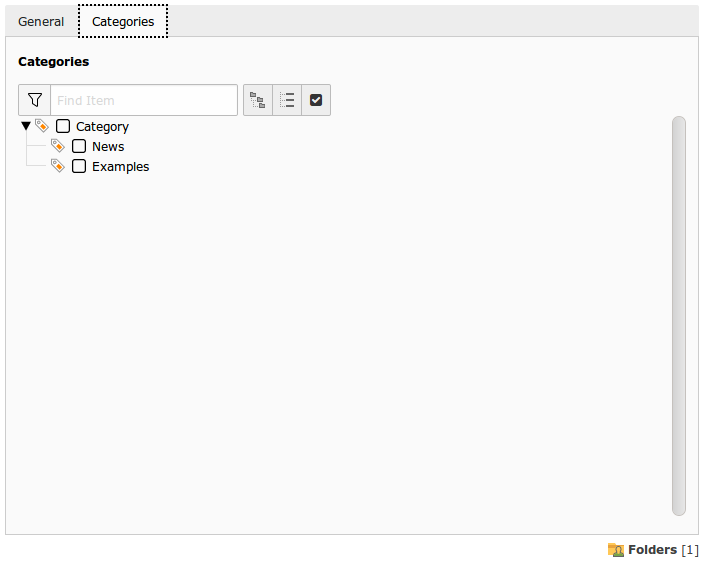
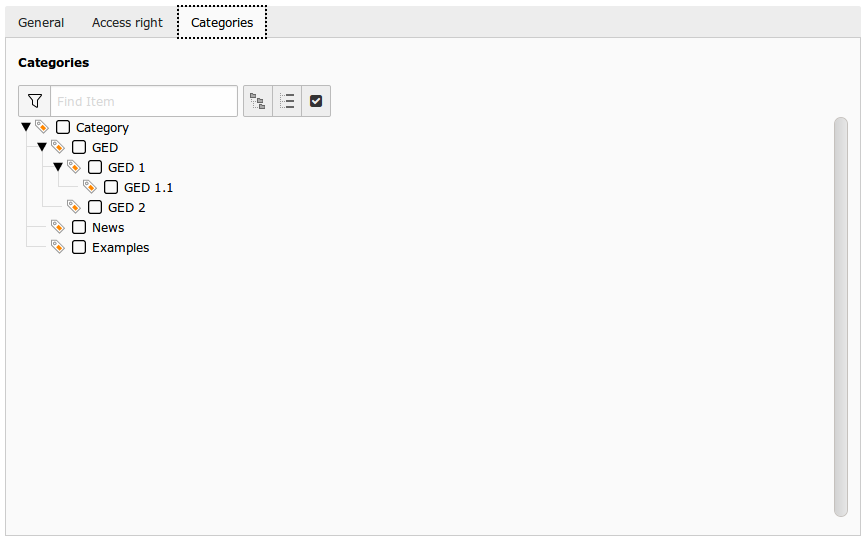
[TASK] Update documentation

Changed region(s): [[0.0, 0.0, 0.4674, 0.4732], [0.8414, 0.207, 0.9972, 1.0], [0.966, 0.0591, 0.9972, 0.0887]]

diff --git a/Documentation/Administration/PluginConfiguration.rst b/Documentation/Administration/PluginConfiguration.rst
@@ -1,0 +1,88 @@
+Plugin configuration
+====================
+
+General configuration
+----------------------
+
+.. figure:: ../Screenshots/PluginGeneral.png
+	:alt: General Configuration
+    
+This is the basic configuration you need to make your extension to work.
+
++----------------------------------------------------+-------------------------------------------------------------------------------+
+| Option                                             | Detail                                                                        |
++====================================================+===============================================================================+
+| Storage                                            | Storage mount where your files are.                                           |
++----------------------------------------------------+-------------------------------------------------------------------------------+
+| Root folder                                        | Root folder for the plugin.                                                   |
++----------------------------------------------------+-------------------------------------------------------------------------------+ 
+| Limiting the number of levels                      | Limite the recursion from the root fodler.                                    |
++----------------------------------------------------+-------------------------------------------------------------------------------+
+| Display Archive                                    | If check, archive files are displayed.                                        |
++----------------------------------------------------+-------------------------------------------------------------------------------+
+| Namespace                                          | Change only if you have 2 plugins on the same page. This avoids the conflicts |
++----------------------------------------------------+-------------------------------------------------------------------------------+
+
+
+Personalization
+----------------------
+
+.. figure:: ../Screenshots/PluginPerso.png
+	:alt: Display Configuration
+    
+These options are for display purpose only, you may let the default settings or choose your own :
+
++-------------------------------------------+------------------------------------------------------------------------------------------------------------------------------------------+
+| Option                                    | Detail                                                                                                                                   |
++===========================================+==========================================================================================================================================+
+| Display thumbnail                         | If checked, thumbnails are displayed instead of filetype's icon                                                                          |
++-------------------------------------------+------------------------------------------------------------------------------------------------------------------------------------------+
+| Display folders in filelist               | If checked, folders are displayed if the list of files                                                                                   |
++-------------------------------------------+------------------------------------------------------------------------------------------------------------------------------------------+
+| Display search field                      | If checked, search field is available                                                                                                    |
++-------------------------------------------+------------------------------------------------------------------------------------------------------------------------------------------+
+| Display tree                              | If checked, a folder tree is available                                                                                                   |
++-------------------------------------------+------------------------------------------------------------------------------------------------------------------------------------------+
+| Available display mode                    | Display mode of the file list. List or mosaic. If both are checked, a dropdown menu is displayed. The user can choose the display mode.  |
++-------------------------------------------+------------------------------------------------------------------------------------------------------------------------------------------+
+| Columns that'll be in the header tab      | If display mode list is available, configure the information that will be displayed                                                      |
++-------------------------------------------+------------------------------------------------------------------------------------------------------------------------------------------+
+| Allowed actions on files                  | Actions availables for the files                                                                                                         |
++-------------------------------------------+------------------------------------------------------------------------------------------------------------------------------------------+
+| Allowed actions on folders                | Actions availables for the fodlers                                                                                                       |
++-------------------------------------------+------------------------------------------------------------------------------------------------------------------------------------------+
+
+
+Edit options
+----------------------
+
+.. figure:: ../Screenshots/PluginEdit.png
+	:alt: Edit options
+    
+These are the options used to build the frontend form to add/edit files and folders
+
++--------------------------------------------------------+---------------------------------------------------------------------------------------------------------------------+
+| Option                                                 | Detail                                                                                                              |
++========================================================+=====================================================================================================================+
+| Groups that can be selected while editing a record     | List of selectionable groups in FE forms. You can use this option to prevent FE admin to give rights to any group.  |
++--------------------------------------------------------+---------------------------------------------------------------------------------------------------------------------+
+| Categories that can be selected while editing a record | List of selectionable groups in FE forms. You can use this option to prevent FE admin to give rights to any group.  |
++--------------------------------------------------------+---------------------------------------------------------------------------------------------------------------------+
+
+Apparence
+----------------------
+
+.. figure:: ../Screenshots/PluginApparence.png
+	:alt: Edit options
+
+These are the options for set a custom template
+
++------------------------------------+----------------------------------------------------------------------------------------------------------------------+
+| Option                             | Detail                                                                                                               |
++====================================+======================================================================================================================+
+| Use custom template                | If checked, you can set a custom template root path and a custom partial root path                                   |
++------------------------------------+----------------------------------------------------------------------------------------------------------------------+
+| Template root path                 | If you want, you can set your own template : set here, your template root path. If empty, default template is used   |
++------------------------------------+----------------------------------------------------------------------------------------------------------------------+
+| Partial root path                  | If you want, you can set your own template : set here, your partial root path. If empty, default template is used    |
++----------------------------------------------------+----------------------------------------------------------------------------------------------------------------------+

diff --git a/Documentation/Administration/Installation.rst b/Documentation/Administration/Installation.rst
@@ -14,7 +14,6 @@ ameos_filemanager need to include Static TypoScript for run properly.
 There are two static template
 
  * File Manager > Default : this one is mandatory
- * File Manager > Ajax Mode : you can add this one for have ajax refresh in the frontend plugin. Warning : you must include jQuery.
 
 
 Initialization
@@ -50,4 +49,12 @@ Many typoscript constants are available :
 | plugin.tx_ameosfilemanager.newFolder.owner_has_read_access    | If value is 1 : when user create a folder, he has the read access                                                                                                               |
 +---------------------------------------------------------------+---------------------------------------------------------------------------------------------------------------------------------------------------------------------------------+
 | plugin.tx_ameosfilemanager.newFolder.owner_has_write_access   | If value is 1 : when user create a folder, he has the write access                                                                                                              |
++---------------------------------------------------------------+---------------------------------------------------------------------------------------------------------------------------------------------------------------------------------+
+| plugin.tx_ameosfilemanager.stockageGroupPid                   | Storage folder that contains usergroups                                                                                                                                         |
++---------------------------------------------------------------+---------------------------------------------------------------------------------------------------------------------------------------------------------------------------------+
+| plugin.tx_ameosfilemanager.includejQuery                      | If value is 1 : include jQuery in the website                                                                                                                                   |
++---------------------------------------------------------------+---------------------------------------------------------------------------------------------------------------------------------------------------------------------------------+
+| plugin.tx_ameosfilemanager.includeFontawesome                 | If value is 1 : include fontawesome in the website                                                                                                                              |
++---------------------------------------------------------------+---------------------------------------------------------------------------------------------------------------------------------------------------------------------------------+
+| plugin.tx_ameosfilemanager.includeDefaultCss                  | If value is 1 : include default ameos_filemanager css file                                                                                                                      |    
 +---------------------------------------------------------------+---------------------------------------------------------------------------------------------------------------------------------------------------------------------------------+

diff --git a/Documentation/Administration/FolderConfiguration.rst b/Documentation/Administration/FolderConfiguration.rst
@@ -22,6 +22,17 @@ Edition form is composed by two tabs :
 +----------------------------------------------------+-------------------------------------------------------------------------------+
 | Keywords                                           | Folder's keywords.                                                            |
 +----------------------------------------------------+-------------------------------------------------------------------------------+
+| Status                                             | Status ready or achive. If empty, inherit the parent status.                  |
++----------------------------------------------------+-------------------------------------------------------------------------------+
+
+**Access right Tab** 
+
+.. figure:: ../Screenshots/FolderAccessRight.png
+	:alt: Access right Configuration
+
++----------------------------------------------------+-------------------------------------------------------------------------------+
+| Field                                              | Description                                                                   |
++====================================================+===============================================================================+
 | Owner                                              | Owner of the folder (fe_users).                                               |
 +----------------------------------------------------+-------------------------------------------------------------------------------+
 | Groups allowed to read the folder                  | Frontend Usergroup allow to read the folder (browse files).                   |
@@ -40,8 +51,7 @@ Edition form is composed by two tabs :
 +----------------------------------------------------+-------------------------------------------------------------------------------+
 | Groups allowed to add file in the folder           | Frontend Usergroup allow to upload files in the folder.                       |
 +----------------------------------------------------+-------------------------------------------------------------------------------+
-| Status                                             | Status ready or achive. If empty, inherit the parent status.                  |
-+----------------------------------------------------+-------------------------------------------------------------------------------+
+
 
 **Categories Tab**
 

diff --git a/Documentation/Administration/FileConfiguration.rst b/Documentation/Administration/FileConfiguration.rst
@@ -7,11 +7,27 @@ File configuration
 
 You can edit files in the backend file list.
 
-Ameos FileManager add EDM Tab
+**General Tab** 
 
+Ameos FileManager add 2 fields in the General tab
 
-.. figure:: ../Screenshots/FolderGeneral.png
+.. figure:: ../Screenshots/FileGeneral.png
 	:alt: General Configuration
+    
++----------------------------------------------------+-------------------------------------------------------------------------------+
+| Field                                              | Description                                                                   |
++====================================================+===============================================================================+
+| Keywords                                           | File's keywords.                                                            |
++----------------------------------------------------+-------------------------------------------------------------------------------+
+| Status                                             | Status ready or achive. If empty, inherit the folder status.                  |
++----------------------------------------------------+-------------------------------------------------------------------------------+
+
+**Access right Tab**
+
+This tab is added by ameos_filemanager
+
+.. figure:: ../Screenshots/FileAccessRight.png
+	:alt: Access Right Configuration
 
 +----------------------------------------------------+-------------------------------------------------------------------------------+
 | Field                                              | Description                                                                   |
@@ -34,5 +50,4 @@ Ameos FileManager add EDM Tab
 +----------------------------------------------------+-------------------------------------------------------------------------------+
 | Groups allowed to add file in the folder           | Frontend Usergroup allow to upload files in the folder.                       |
 +----------------------------------------------------+-------------------------------------------------------------------------------+
-| Status                                             | Status ready or achive. If empty, inherit the folder status.                  |
-+----------------------------------------------------+-------------------------------------------------------------------------------+
+

diff --git a/Documentation/Administration/ExtensionConfiguration.rst b/Documentation/Administration/ExtensionConfiguration.rst
@@ -1,0 +1,19 @@
+Extension configuration
+=======================
+
+You can update the configuration in the extension manager
+
+.. figure:: ../Screenshots/ExtConfiguration.png
+	:alt: Extension Configuration
+
++----------------------------------------------------+-------------------------------------------------------------------------------+
+| Field                                              | Description                                                                   |
++====================================================+===============================================================================+
+| Use ZIP Archive                                    | For download a folder, you can use ZipArchive library instead of zip command. |
++----------------------------------------------------+-------------------------------------------------------------------------------+
+| Enable Old Plugin                                  | Enable old plugin inclusion.                                                  |
++----------------------------------------------------+-------------------------------------------------------------------------------+ 
+| Enable Export Module                               | Enable a backend module for export number of download of each files.          |
++----------------------------------------------------+-------------------------------------------------------------------------------+ 
+| Enable File's content search                       | Enable searching in file's content.                                           |
++----------------------------------------------------+-------------------------------------------------------------------------------+

diff --git a/Documentation/Administration/Compatibility.rst b/Documentation/Administration/Compatibility.rst
@@ -1,0 +1,13 @@
+Compatibility with older version
+=================================
+
+If you update ameos_filamanger from a version < 1.2.x, you can reactivate older plugin in the extension manager.
+
+There 4 old plugins :
+
+ - Filemanager : old filemanager explorer. Configuration is nearly same as current explorer
+ - Filemanager > Flat : display all files from a folder, included subfolder's file
+ - Filemanager > Export : Export downloaded file. Actually replace by a backend module
+ - Filemanager > Search : display a search field. Include by default in the current explorer
+
+You can activate ajax mode in old filemanager explorer by adding typoscript static templates "File manager > Ajax".

diff --git a/Documentation/Administration/Index.rst b/Documentation/Administration/Index.rst
@@ -1,6 +1,6 @@
 .. _adminmanual:
 
-Manual
+Administration
 ====================
 
 .. only:: html
@@ -12,6 +12,8 @@ Manual
 	:titlesonly:
 
 	Installation
+	ExtensionConfiguration
 	PluginConfiguration
 	FolderConfiguration
 	FileConfiguration
+	Compatibility

diff --git a/Documentation/Introduction/Index.rst b/Documentation/Introduction/Index.rst
@@ -24,5 +24,5 @@ The files and folders are the same in FE and BE. Therefore, a change in one cont
 Screenshots
 -----------
 
-.. figure:: ../Images/fullTab.png
+.. figure:: ../Screenshots/PreviewPlugin.png
 	:alt: Frontend rendering
